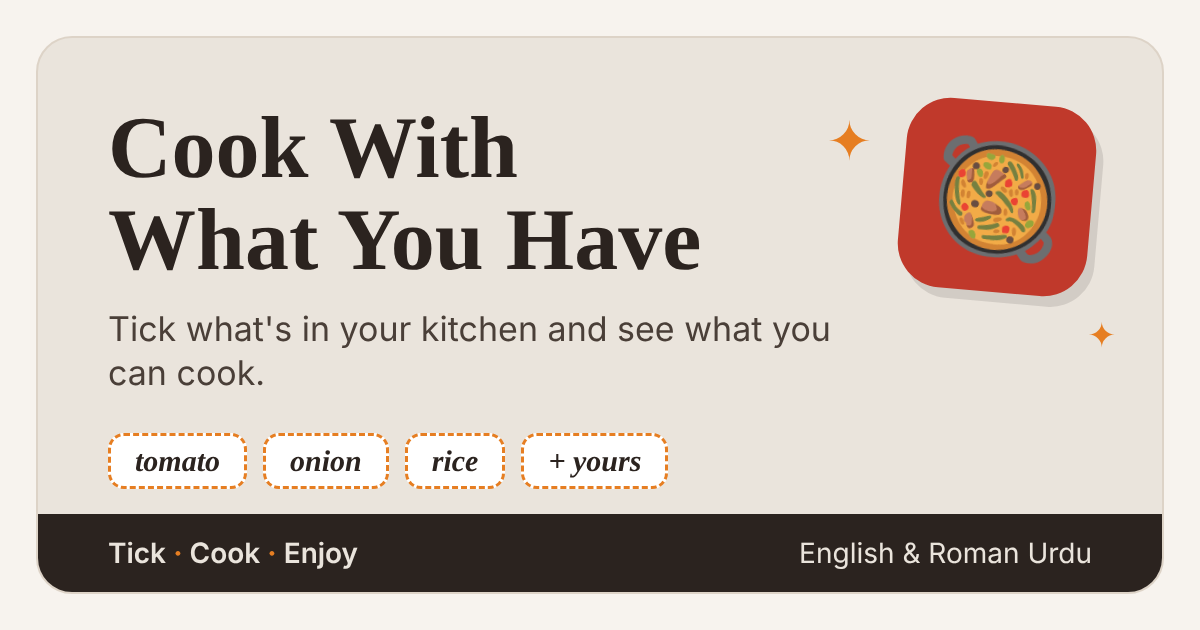
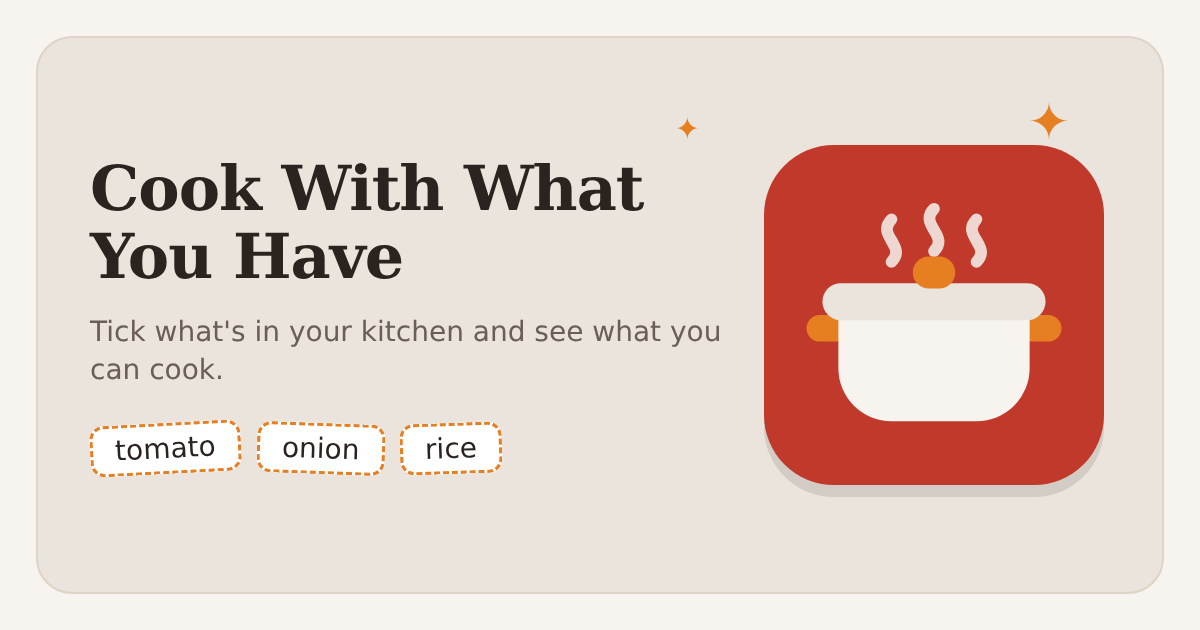
Add link preview image and social meta tags

diff --git a/index.html b/index.html
@@ -11,6 +11,14 @@
 <meta property="og:type" content="website">
 <meta property="og:url" content="https://haadiyafurqan-ui.github.io/Cook-with-what-you-have/">
 <meta property="og:site_name" content="Cook With What You Have">
+<meta property="og:image" content="https://haadiyafurqan-ui.github.io/Cook-with-what-you-have/og-image.png?v=2">
+<meta property="og:image:width" content="1200">
+<meta property="og:image:height" content="630">
+<meta property="og:image:alt" content="Cook With What You Have: a cooking pot with the tagline Tick what's in your kitchen and see what you can cook.">
+<meta name="twitter:card" content="summary_large_image">
+<meta name="twitter:image" content="https://haadiyafurqan-ui.github.io/Cook-with-what-you-have/og-image.png?v=2">
+<meta property="og:url" content="https://haadiyafurqan-ui.github.io/Cook-with-what-you-have/">
+<meta property="og:site_name" content="Cook With What You Have">
 <meta property="og:image" content="https://haadiyafurqan-ui.github.io/Cook-with-what-you-have/og-image.png">
 <meta property="og:image:width" content="1200">
 <meta property="og:image:height" content="630">
